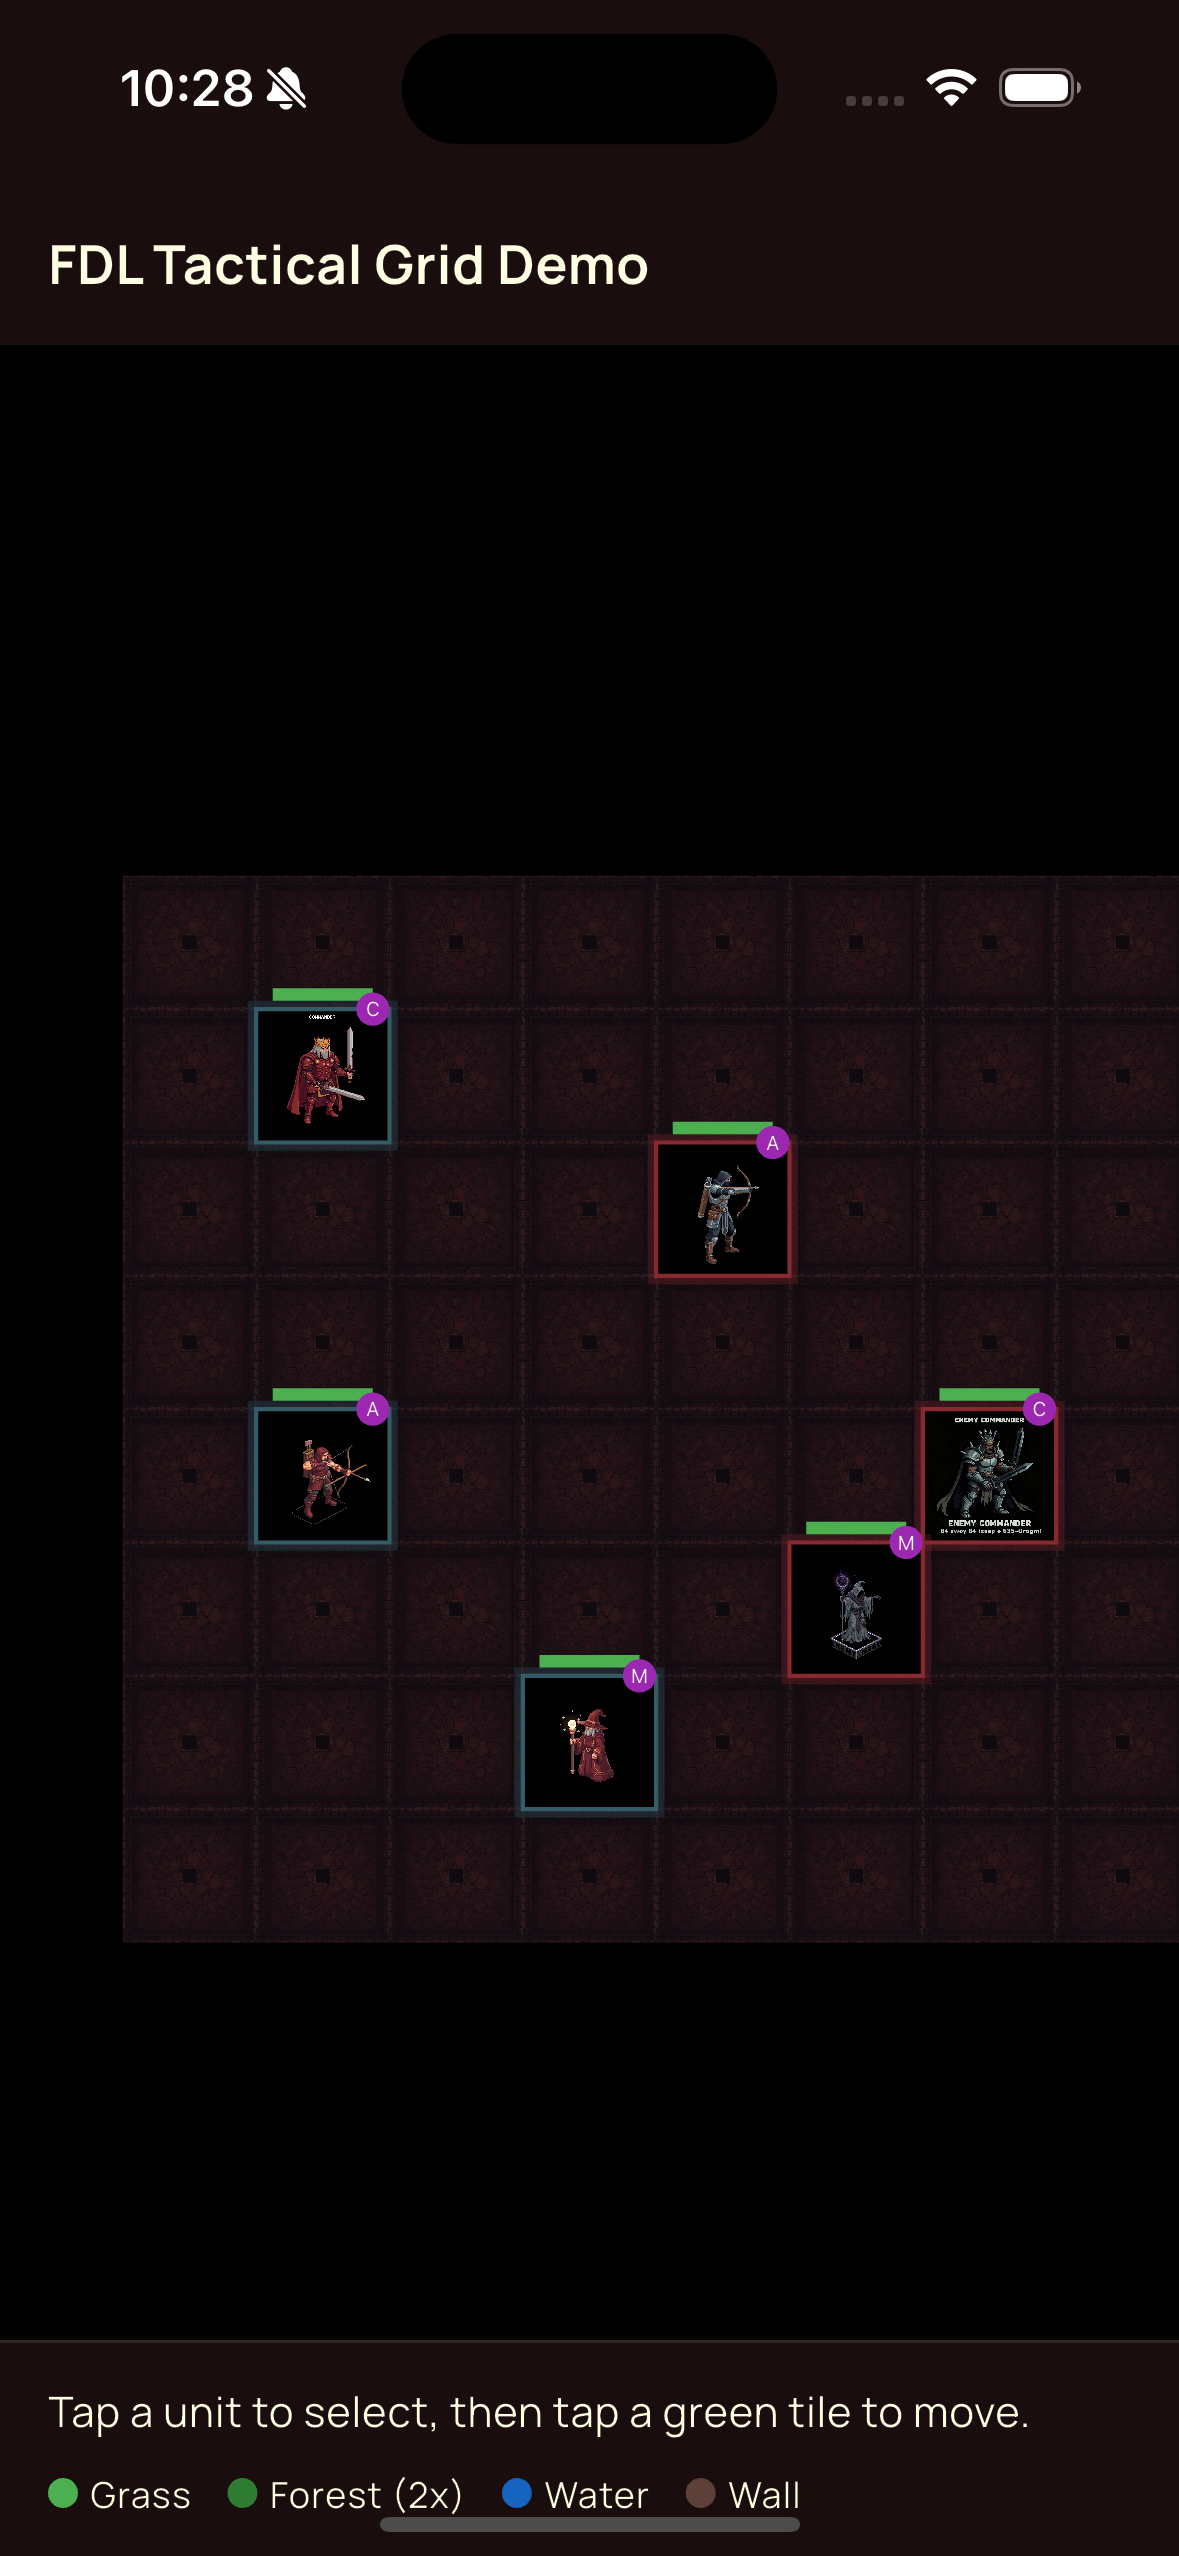
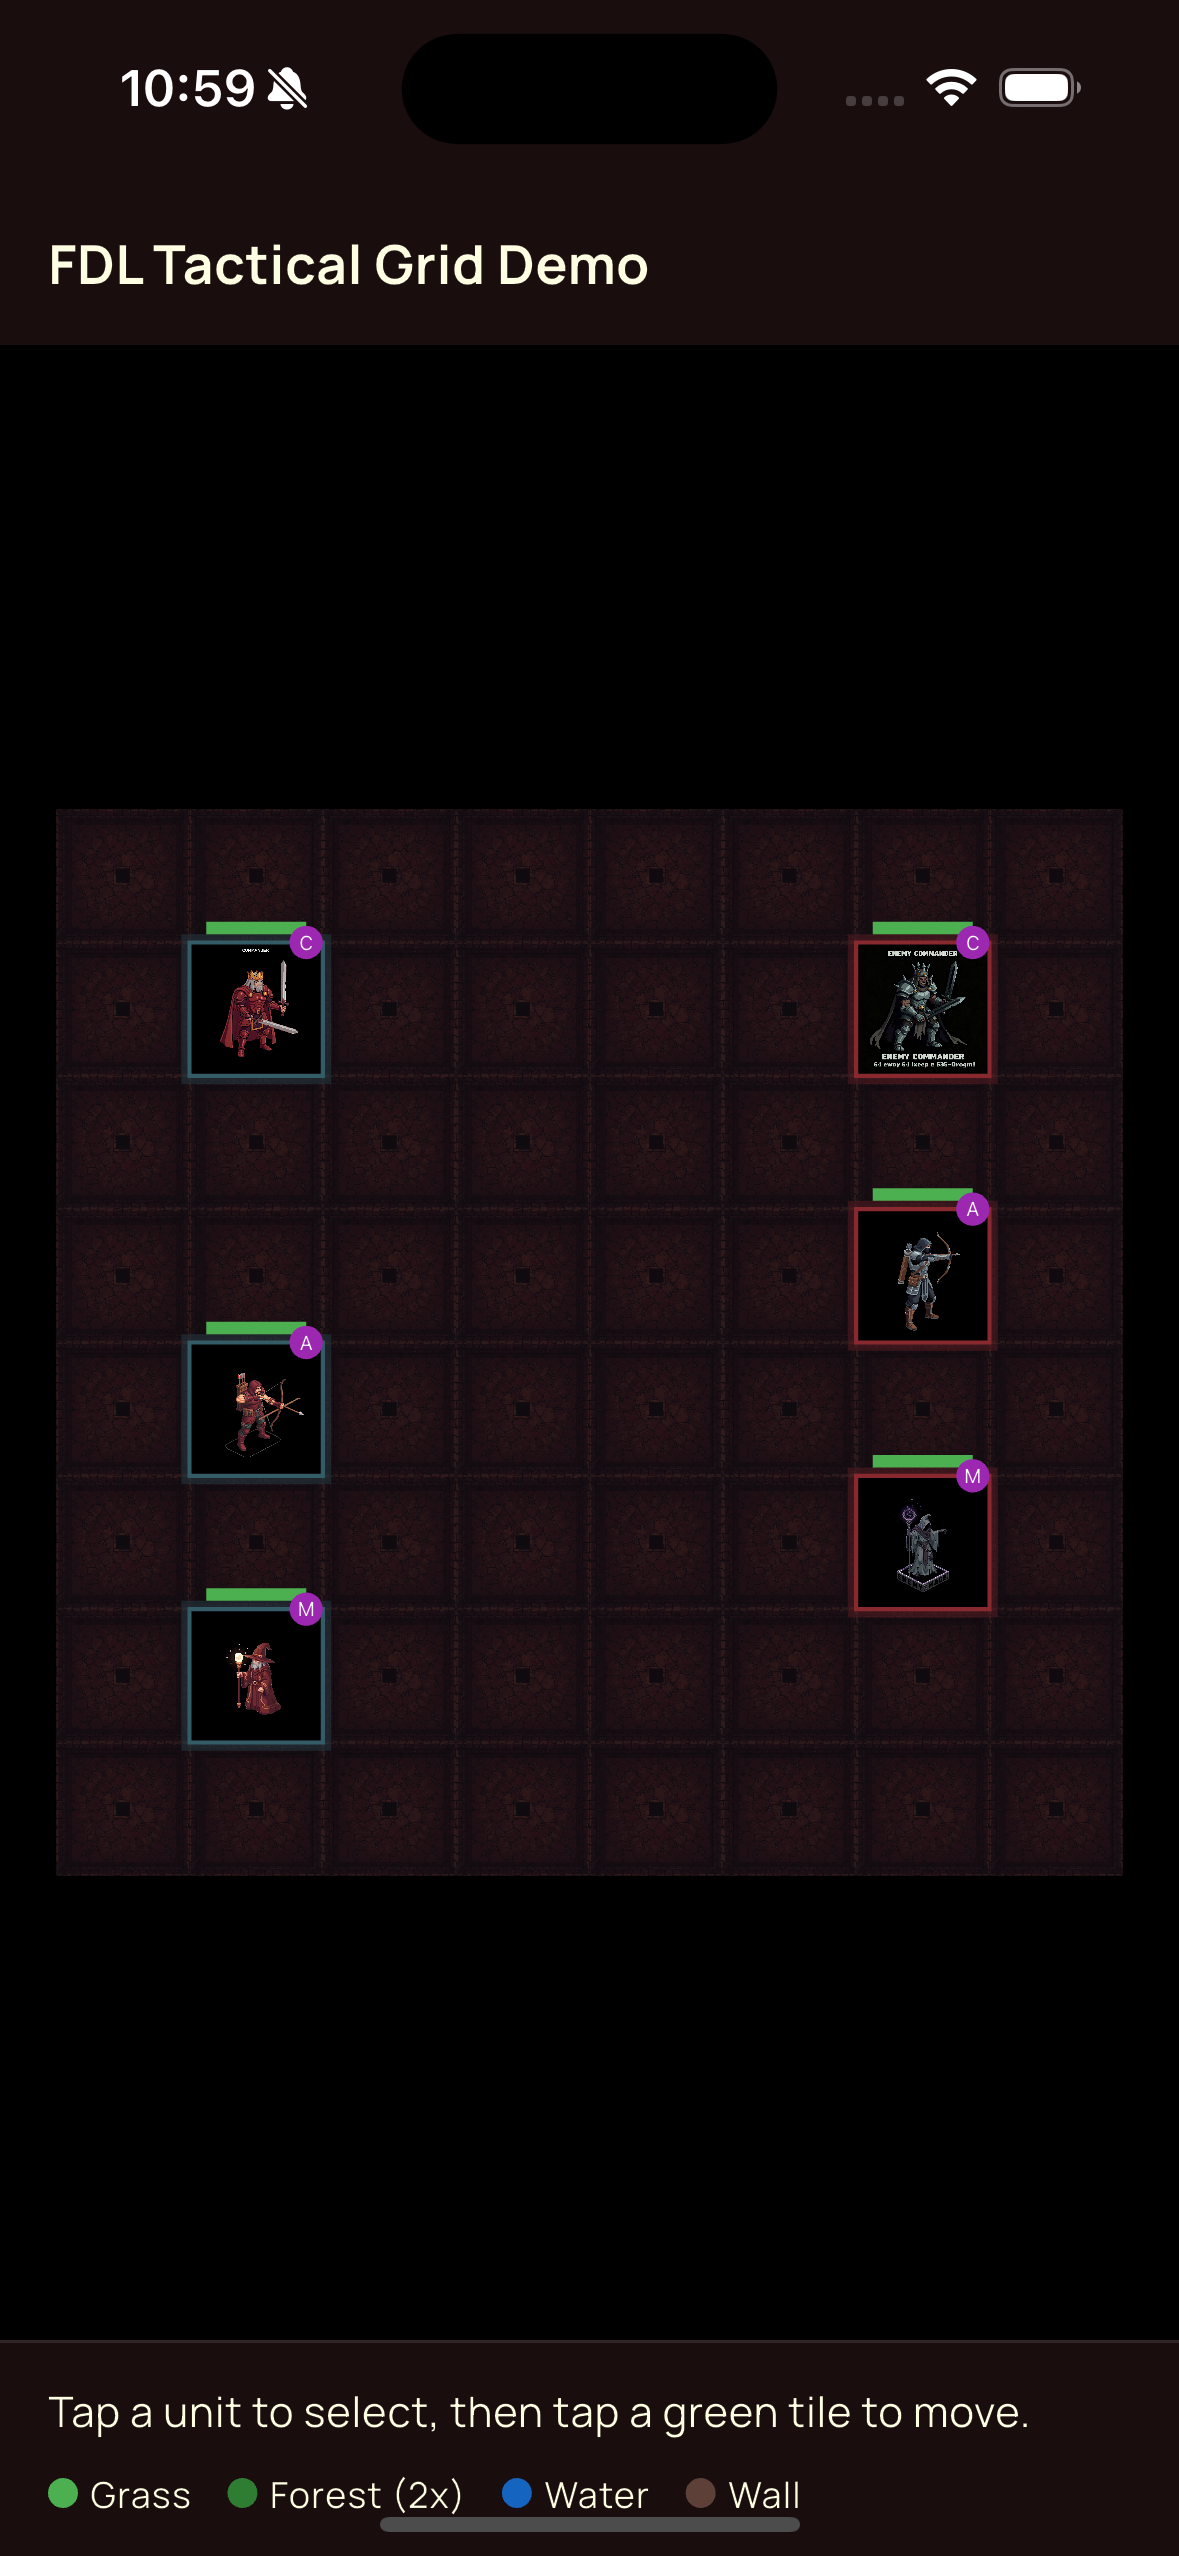
fix(world-engine): center grid on true midpoint, not entity bbox
centerMap() centers on entity bounding box midpoint which is offset
when units don't span the full grid. Snap viewfinder directly to
the grid center (4 * tileSize) matching the pattern in apps/tactical_grid.
Update README screenshot with properly centered grid.

Changed region(s): [[0.0305, 0.3091, 1.0, 0.7727], [0.5496, 0.4327, 0.916, 0.68], [0.1527, 0.0309, 0.2137, 0.0618]]

diff --git a/packages/fifty_world_engine/example/lib/main.dart b/packages/fifty_world_engine/example/lib/main.dart
@@ -248,10 +248,25 @@ class _DemoPageState extends State<DemoPage> {
       _controller.addStatusIcon(unit.id, unit.label);
     }
 
-    // Zoom out and centre camera on the grid.
-    _controller.zoomOut();
-    _controller.zoomOut();
-    _controller.centerMap();
+    // Centre camera on the grid (retry if engine not ready).
+    _centerCamera();
+  }
+
+  /// Zooms out and snaps the camera to the grid centre.
+  ///
+  /// Retries if the engine camera is not yet initialised.
+  void _centerCamera() {
+    try {
+      _controller.zoomOut();
+      _controller.zoomOut();
+      const tileSize = FiftyWorldConfig.blockSize;
+      _controller.game.cameraComponent.viewfinder.position =
+          // ignore: deprecated_export_use
+          Vector2(4 * tileSize, 4 * tileSize);
+    } catch (_) {
+      // Camera not ready yet; retry shortly.
+      Future.delayed(const Duration(milliseconds: 300), _centerCamera);
+    }
   }
 
   // --- Tap handlers ---
